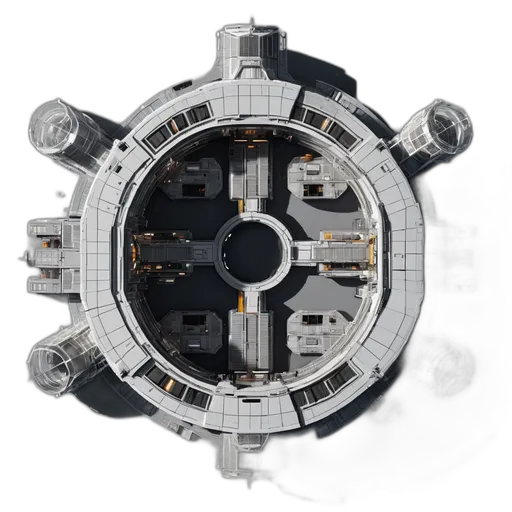
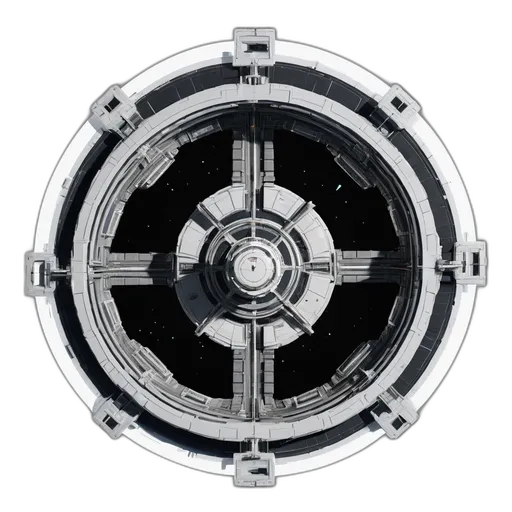
feat(station): consistent top-light sprites, rotate to face the sun
Re-render the 20 station sprites with a single consistent top-of-frame
light (asset_prompts.json station template/negative) and rotate each
sprite in PlanetManager.createStations so its lit edge faces the star
(rotation = atan2(starY-wy, starX-wx) + PI/2). The baked shading now
tracks the sun's direction per station instead of a fixed angle, so the
shadow falls away from the star like the planets' sun-facing shading.

diff --git a/src/presentation/flight/PlanetManager.ts b/src/presentation/flight/PlanetManager.ts
@@ -584,6 +584,11 @@ export class PlanetManager implements FlightModule {
         sprite.width = 40;
         sprite.height = 40;
         sprite.eventMode = "none";
+        // Sprites are baked lit from their top edge; rotate so the lit side faces
+        // the star, making each station's shading consistent with the sun's
+        // direction (the far side falls into shadow) instead of a fixed angle.
+        sprite.rotation =
+          Math.atan2(center.y - wy, center.x - wx) + Math.PI / 2;
         ctn.addChild(sprite);
       } else {
         // Diamond shape coloured by station type.
